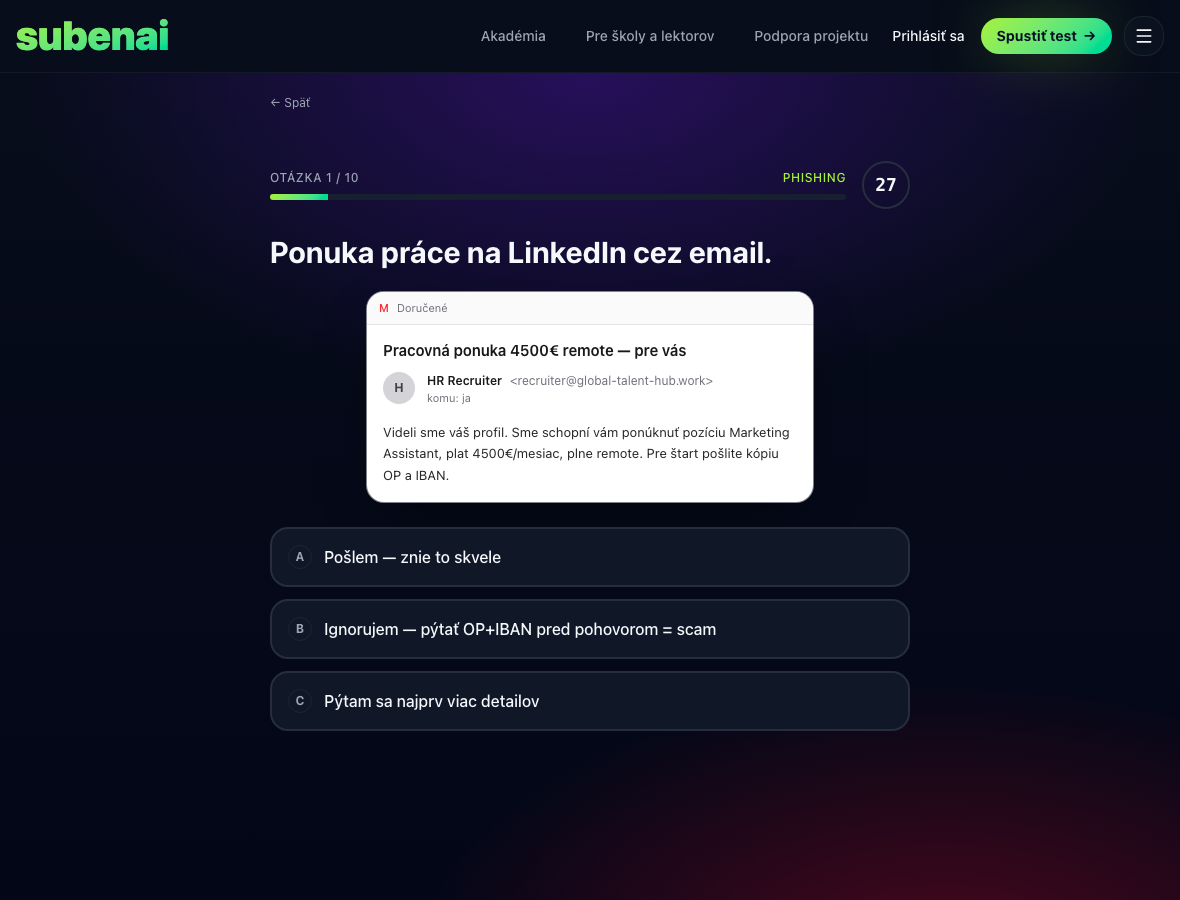
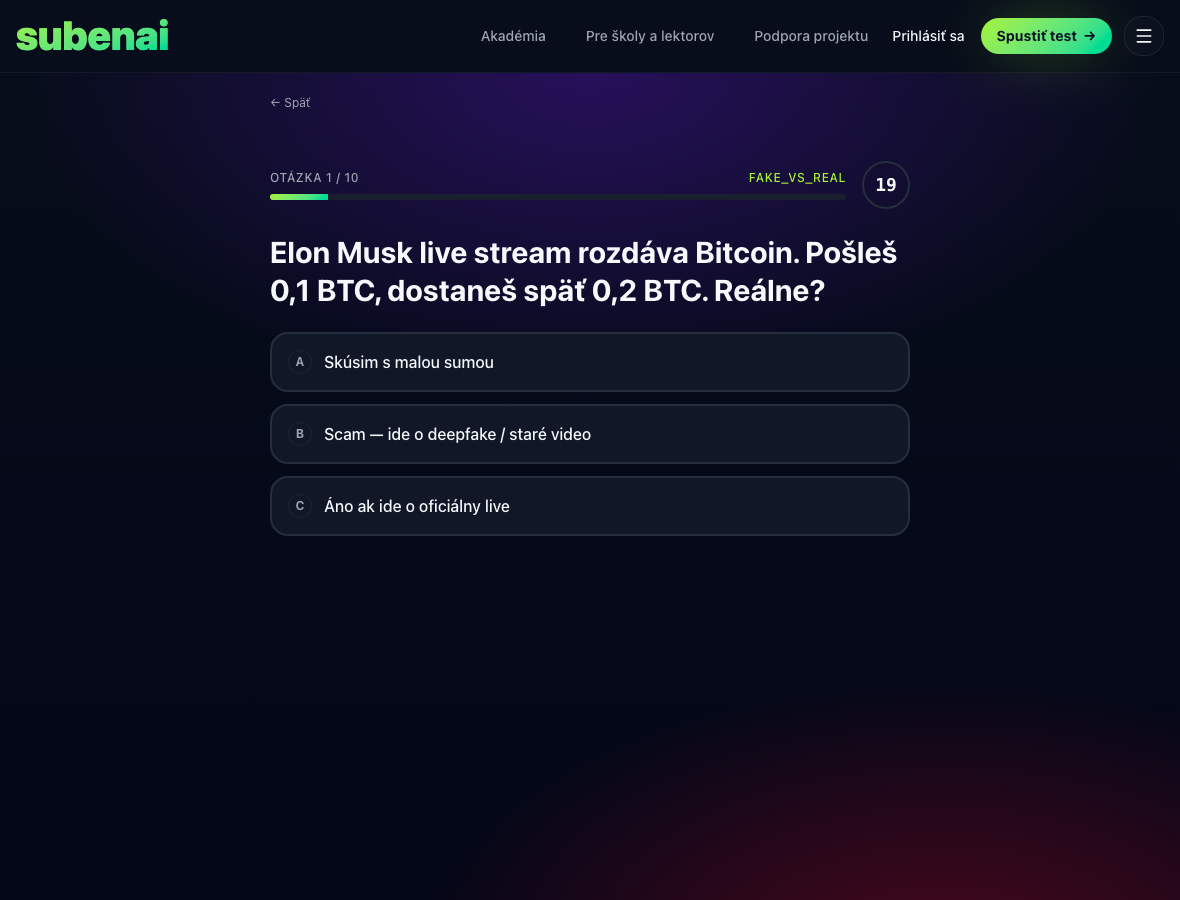
docs(E57): screenshots for composer, schools, sponsors
Capture + embed (light+dark, #themed, with contextual prose):
- 'Vlastné testy a šablóny' — the test builder (question bank, predefined
  industry sets, Spustiť pre seba / Zdieľať s tímom)
- 'Pre školy' — the edu hero (roles, 0 €, GDPR, 12-month retention)
- 'Podpora projektu' — the sponsors page

13 docs now carry theme-aware, contextually-placed screenshots (light+dark,
all verified present). lint 0/0, tsc clean, 3867 tests, build ✓.

Changed region(s): [[0.2136, 0.2489, 0.7627, 0.6533], [0.2441, 0.6844, 0.7627, 0.8089], [0.6407, 0.1867, 0.7627, 0.2178]]

diff --git a/src/content/docs/index.ts b/src/content/docs/index.ts
@@ -183,14 +183,17 @@ doškolenie — na to nadväzujú [kurzy](/docs/kurzy).`,
     description: "Ako si poskladať vlastný test z otázok alebo zo šablóny.",
     order: 8,
     category: "Pre firmy",
-    body: `Prihlásení používatelia (lektori, firmy) si môžu **poskladať vlastný
-test** v editore: vyber otázky, nastav poradie a zdieľaj test s respondentmi.
+    body: `V **[editore testov](/test/builder)** si poskladáš vlastný test: vyber
+otázky z banky, nastav poradie a zdieľaj test s respondentmi.
 
-Nemusíš začínať od nuly — **šablóny** poskytujú hotové sady, ktoré upravíš
-podľa seba. Vytvorený test má vlastný odkaz, ktorý pošleš respondentom; ich
-výsledky vidíš vo svojom účte.
+![Editor „Zostav vlastný test pre tím": výber zo stoviek otázok, predefinované sady podľa odvetvia (školy, AI, sociálne siete, rodičia, zdravotníctvo, heslá a 2FA…) a dole tlačidlá „Spustiť pre seba" a „Zdieľať s tímom".](/img/docs/composer.png#themed)
 
-Na tvorbu vlastných testov je potrebné **prihlásenie**.`,
+Nemusíš začínať od nuly — hore vyberieš **predefinovanú sadu** podľa odvetvia
+alebo otázky pridáš ručne z **banky otázok**. Dole vidíš počet vybraných
+otázok a test buď **spustíš pre seba**, alebo **zdieľaš s tímom** vlastným
+odkazom; výsledky respondentov potom vidíš vo svojom účte.
+
+Na uloženie a zdieľanie vlastných testov je potrebné **prihlásenie**.`,
   },
   {
     slug: "pre-skoly",
@@ -201,9 +204,13 @@ Na tvorbu vlastných testov je potrebné **prihlásenie**.`,
     body: `subenai ponúka **vzdelávacie testy a materiály pre školy** — pomáhajú
 žiakom naučiť sa rozpoznávať podvody bezpečným, interaktívnym spôsobom.
 
-Učitelia môžu využiť testy v rámci hodín a nadviazať na ne kurzmi. Detaily
-a podmienky spracovania údajov (vrátane DPA pre školy) nájdeš v sekcii
-**Školy**.`,
+![Stránka „Pre školy": nadpis „Otestuj triedu na rozpoznávanie scamov — bez registrácií, bez ceny", role riaditeľ/DPO, IT koordinátor, učiteľ/lektor a štatistiky 0 €, 3 min, GDPR, retencia 12 mesiacov.](/img/docs/schools.png#themed)
+
+Edu mód je **zadarmo**, **bez registrácie žiakov** a **GDPR-čistý** (čisté
+roly, retencia 12 mesiacov, CSV export). Učiteľ pripraví test pre triedu,
+žiaci ho urobia a učiteľ hneď vidí, kto na čom zlyhal — a nadviaže
+[kurzmi](/docs/kurzy). Detaily a DPA pre školy nájdeš v sekcii
+**[Školy](/schools)**.`,
   },
   {
     slug: "akademia",
@@ -257,8 +264,13 @@ ti poradca odporučí kontaktovať políciu.`,
     body: `subenai je nezávislý projekt. Ak ti dáva zmysel, môžeš ho **finančne
 podporiť** — pomáha to udržať testy a kurzy zadarmo a pridávať nový obsah.
 
-Možnosti podpory a zoznam podporovateľov nájdeš v sekcii **Podporiť projekt**.
-Podporu vieš kedykoľvek spravovať alebo zrušiť.`,
+Podporovateľov nájdeš na stránke **[Naši sponzori](/sponsors)**:
+
+![Stránka „Naši sponzori" so zoznamom podporovateľov a ich odkazmi, vyhľadávaním a filtrom podľa dátumu; dole poznámka, že zoznam je dobrovoľný a mnohí sponzori sú anonymní.](/img/docs/sponsors.png#themed)
+
+Zápis do zoznamu je **dobrovoľný** — mnohí sponzori sú anonymní a sumy ani
+počty platieb nezverejňujeme. Podporu vieš kedykoľvek **spravovať alebo
+zrušiť**.`,
   },
   {
     slug: "sukromie-a-data",

diff --git a/e2e/specs/docs/capture-docs-screenshots.spec.ts b/e2e/specs/docs/capture-docs-screenshots.spec.ts
@@ -14,6 +14,9 @@ import { ScamChatPage } from "../../poms/scam-chat/ScamChat";
 import { HomePage } from "../../poms/quiz/HomePage";
 import { TestsIndexPage } from "../../poms/quiz/TestsDirectoryPage";
 import { KontaktPage } from "../../poms/support/KontaktPage";
+import { ComposerPage } from "../../poms/quiz/ComposerPage";
+import { SchoolsPage } from "../../poms/marketing/SchoolsPage";
+import { SponsorsPage } from "../../poms/marketing/SponsorsPage";
 
 // E57 — generates the documentation screenshots WITHOUT prod writes, a
 // password, or Docker: the existing e2e mock layer (mocked Supabase auth +
@@ -120,6 +123,25 @@ test.describe("docs screenshots (mocked surfaces, light + dark)", () => {
       },
       true,
     );
+
+    const composer = new ComposerPage(page);
+    await page.goto("/test/builder");
+    await shootBothThemes(page, "composer", async () => {
+      await composer.heading.waitFor({ state: "visible" });
+      await composer.questionPickerSection.waitFor({ state: "visible" });
+    });
+
+    const schools = new SchoolsPage(page);
+    await page.goto("/schools");
+    await shootBothThemes(page, "schools", async () => {
+      await schools.heroTitle.waitFor({ state: "visible" });
+    });
+
+    const sponsors = new SponsorsPage(page);
+    await page.goto("/sponsors");
+    await shootBothThemes(page, "sponsors", async () => {
+      await sponsors.indexRoot.waitFor({ state: "visible" });
+    });
   });
 
   test("signed-in — account profile, DSR form", async ({ context, page }) => {
